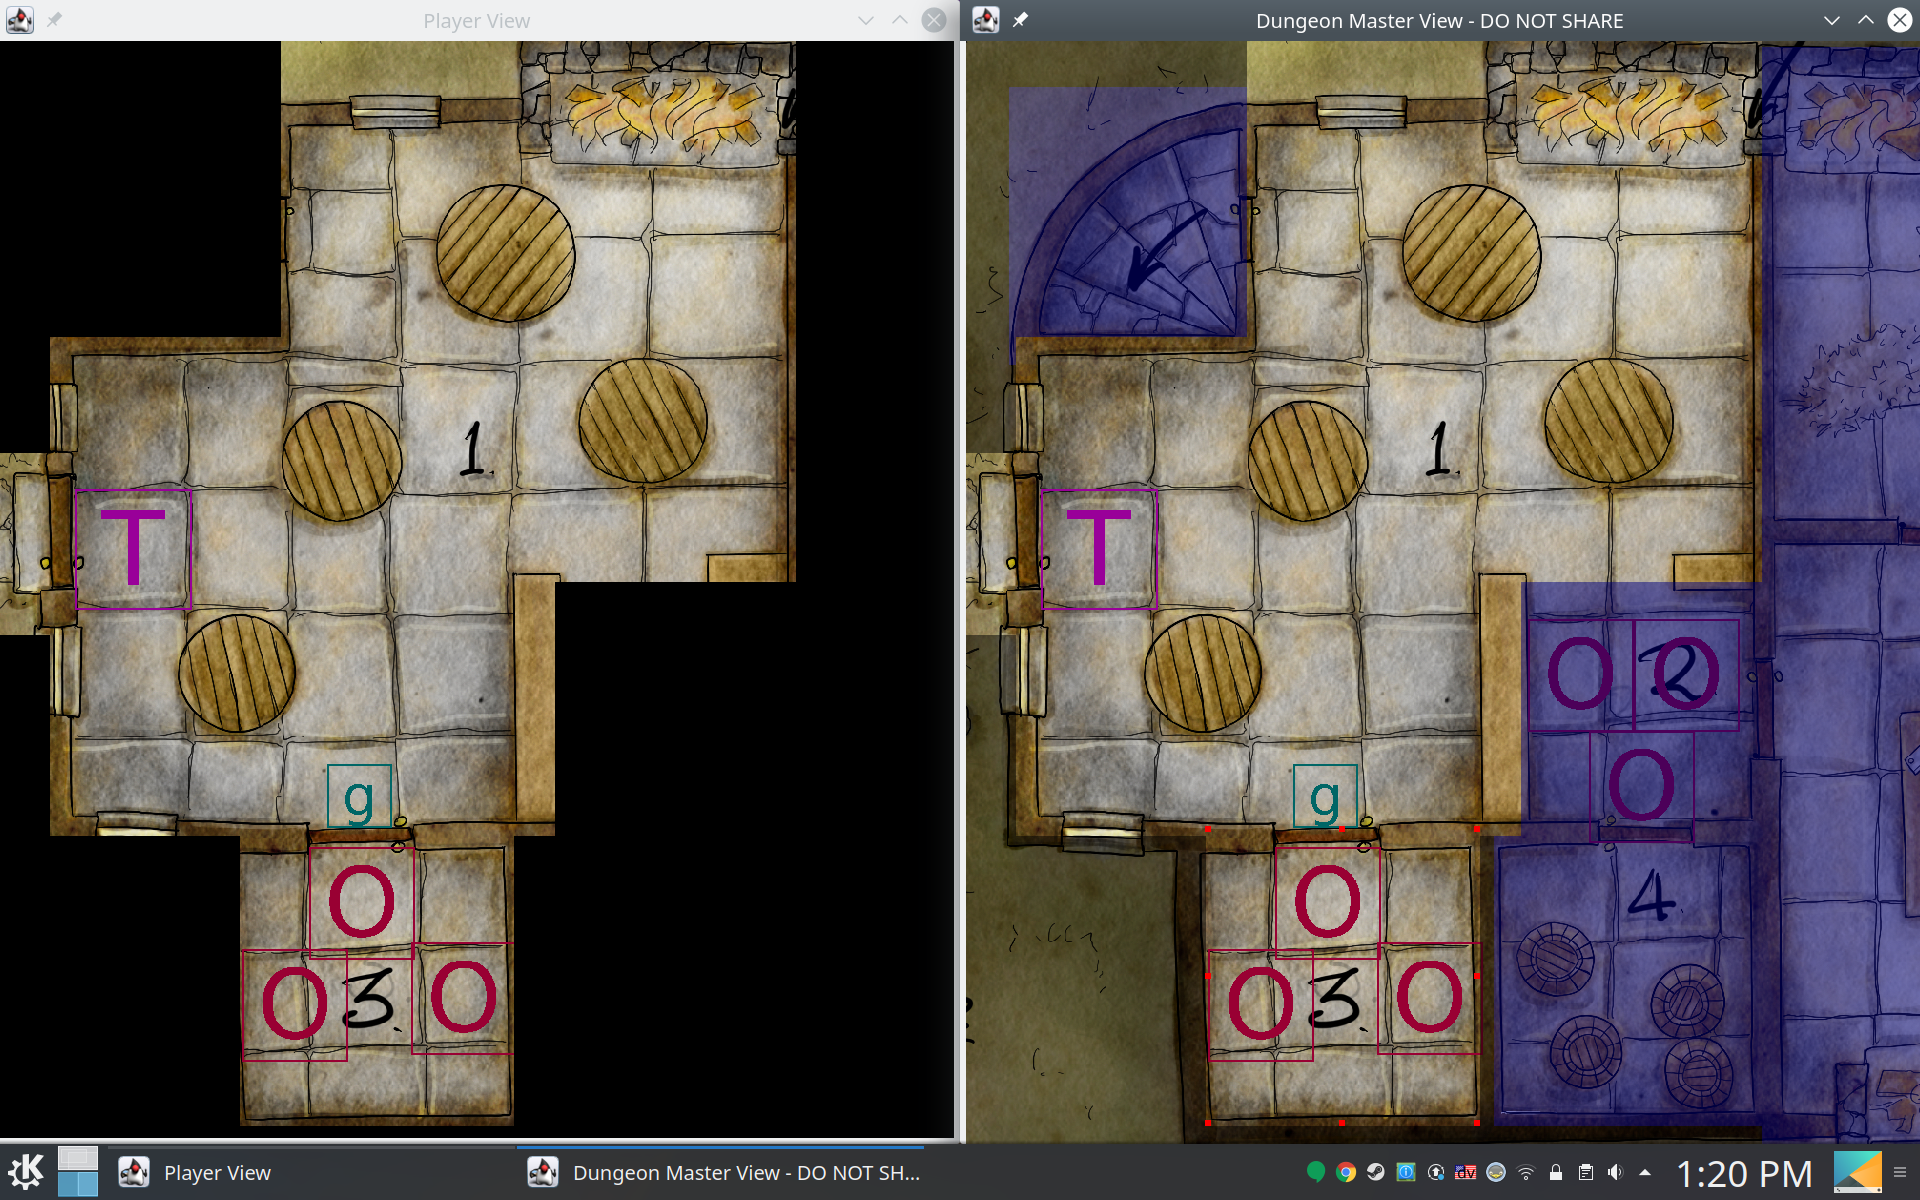
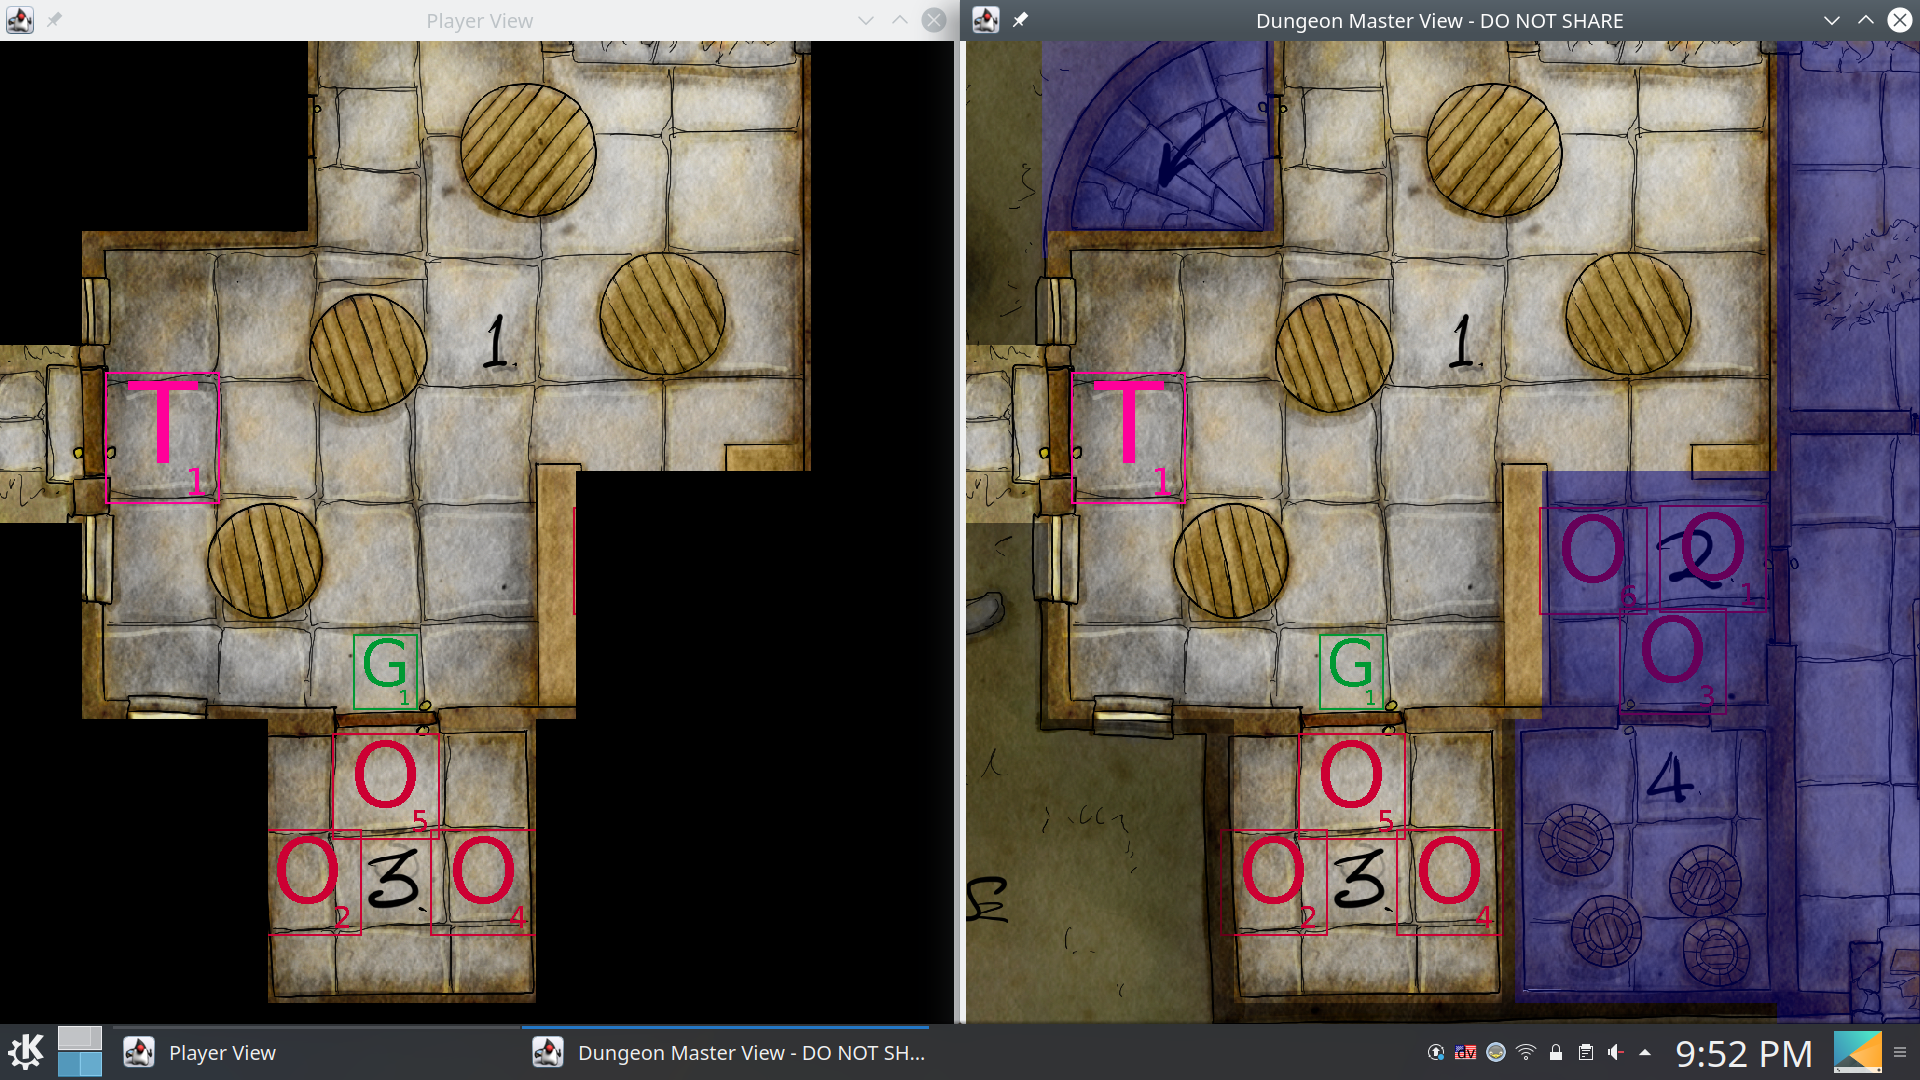
Update readme and screenshots to reflect new features.

diff --git a/README.md b/README.md
@@ -29,7 +29,7 @@ the day's travels, walks past the mess without really noticing it and throws
 open the door to the south. He is startled to see three large orcs waiting to
 ambush him.*
 
-The DM exposes the room and its contents to the players by hovering over the
+The DM exposes the new room and its contents to the players by hovering over the
 blue region with the mouse and pressing the space bar.
 
 ![Orc ambush exposed in the room to the south](img/DMToolDiscoverOrcs.png?raw=true)
@@ -41,21 +41,27 @@ room to the east. Drawn by the noise, they rush out to join the battle.*
 
 The DM marks the foremost orc dead by hovering over its avatar and pressing the
 space bar. Then, to avoid exposing to the players where they came from, the DM
-pauses Player View display updates by pressing Q before dragging the other three
-orcs into view. By pressing Q again, the Player View is updated to show the new
-enemies.
+pauses the Player View by pressing F before dragging the other three orcs into
+view. By pressing F again, the Player View is updated to show the new enemies.
 
 ![First orc dead, but three more approach from behind](img/DMToolOrcBattle.png?raw=true)
 
 *Gearwood throws a Shatter spell at the back wall of the store room with the two
 orcs in it, killing both of them. He and Torgwyn then move to counter the
 remaining three orcs, but are now at a disadvantage because Gearwood is out of
-spells for the day. Luckily, their companion Ragnar, a human fighter, entered
-at that moment after he finished tying up the horses.*
+spells for the day. Luckily their companion Ragnar, a human fighter, having just
+finished tying up the horses, entered at that moment and joined the battle.*
 
 The DM marks the other two orcs to the south as dead by hovering over them and
 pressing space bar, and then adds Ragnar by tapping the A key and choosing a
 symbol and a color for the new character.
+
+*Torgwyn hurriedly pulls the door closed behind her in case any of the orcs get
+back up, and turns to finish the fight.*
+
+The DM fogs the room by hovering over it and pressing the spacebar. Now the
+players are unable to see any avatars in that area, although they can still see
+a dim image of the map to indicate they know what it looks like.
 
 ![First three orcs dead, and Ragnar joins the battle](img/DMToolOrcsHalfDefeated.png?raw=true)
 
@@ -63,11 +69,6 @@ symbol and a color for the new character.
 
 When you start your screen sharing, make sure to specify that it only
 shares the Player View window, **not** your entire screen.
-
-In Windows there are some issues with sharing the Player View while it is
-covered by another window. What seems to work best is half-screening the
-Player and DM views side-by-side. This may be specifically related to Google
-Hangouts.
 
 Everything requires hotkeys, and there are no instructions built into the
 tool, so you'll want to become familiar with this chart. All controls are
@@ -107,14 +108,17 @@ through the DM view; the Player view can only be resized or closed.
 ### Prepare
 
 Open a new image with Ctrl+N and resize your windows (their sizes are locked
-together) to a comfortable level.
+together) to a comfortable level (see Known Bugs below if the DM view goes
+blank).
 
 Use R, Shift+R, D, and Shift+D to place regions over the rooms/areas of your map
 that you will want players to see. Verify visibility looks good by toggling
-these on/off with Space and looking at the Player View.
+these on/off with Space and V and looking at the Player View.
 
 If you want to pre-place enemies, NPCs, or your expected players, use A and D to
 create the avatars, then use your mouse to resize and drag them around the map.
+New avatars are created at the same size as the last avatar you resized, so you
+can save some time by resizing the first and then creating the rest.
 
 Once you are happy, save the map with Ctrl+S.
 
@@ -130,27 +134,31 @@ Place your player avatars onto the map with A, if they aren't already there.
 
 Make your players' starting location(s) visible with Space.
 
-Unpause Player View updates with Q.
+Unpause Player View updates with F.
 
 As your players move through the map, drag their avatars around and toggle
-visibility. If they get into a battle, mark enemies as dead with Space or by
-deleting them with Delete or Backspace. If you need to add more NPCs, use A or
-D.
+visibility and fog. You can group select avatars by right-click and drag, and
+toggle the selection with right-click; deselect everything with Escape.
 
-If you need to make larger changes, pause the Player View with Q first to avoid
+If the party gets into a battle, mark enemies as dead with Space or by deleting
+them with Delete or Backspace. If you need to add more NPCs, use A or
+D. If an enemy goes invisible, use V to hide it from the players.
+
+If you need to make larger changes, pause the Player View with F first to avoid
 exposing areas or avatars that your players should not see yet. Pausing includes
 updates to scrolling and zooming, so you are free to make all kinds of
-adjustments without your players seeing anything.
+adjustments without your players seeing anything, including loading a new map.
 
-I recommend *not* saving the map, so it can more easily be reused next time,
-unless you need to stop for now and resume later. In that case, use
-Ctrl+Shift+S to Save-As rather than overwriting your original map.
+I recommend *not* saving the map after the party has trampled its way through,
+so it can more easily be reused next time (unless, of course, you need to stop
+for now and resume later; in that case, use Ctrl+Shift+S to Save-As rather than
+overwriting your original map).
 
 ### Share
 
 If you have permission (check the license where you found your map images),
 share your saved maps with other DMs so they don't need to mark out all of the
-regions themselves.
+regions and enemies themselves.
 
 ## Build & Run
 
@@ -167,9 +175,25 @@ You must have these installed:
 Make sure your `JAVA_HOME` is set correctly, then run this command from the
 root of the repository:
 ```bash
-bazel build java:DMTool_deploy.jar
+./build_release
 ```
 
-The resulting jar, `bazel-bin/DMTool_deploy.jar` will contain everything you
-need to run the program. You can start it with
-`java -jar bazel-bin/DMTool_deploy.jar`.
+The resulting jar, `bazel-bin/java/DMTool_deploy.jar` will contain everything
+needed to run the program. You can start it with
+`java -jar bazel-bin/java/DMTool_deploy.jar`, or copy it somewhere else.
+
+## Known Bugs
+
+### Google Hangouts on Windows
+
+In Windows you may encounter an odd issue when sharing the Player View
+over Google Hangouts; when it is covered by another window, Hangouts may display
+the uppermost window in the shared area. What seems to work best is
+half-screening the Player and DM views side-by-side. I have not seen this
+problem outside of Google Hangouts on Windows.
+
+### Blank DM view on startup / resize
+
+Sometimes the DM view will be blank after starting the program or resizing the
+window. Repeatedly try resizing until it works. Usually this only takes one or
+two tries.
